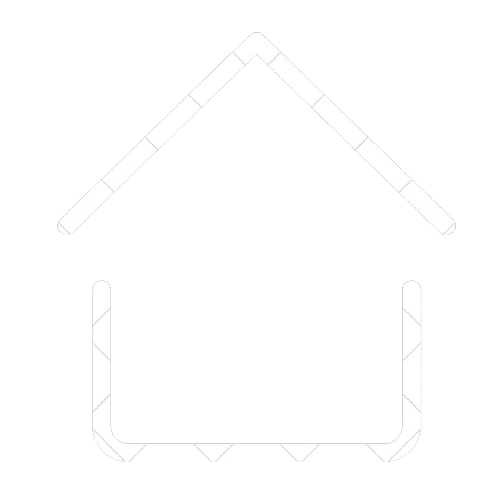
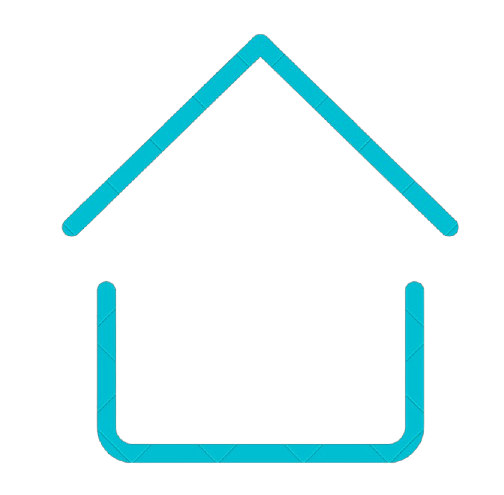
ajustes na cor do botão e inserindo legenda

Changed region(s): [[0.1811, 0.5455, 0.8451, 0.9394], [0.1207, 0.0606, 0.9356, 0.4848]]

diff --git a/index.html b/index.html
@@ -47,11 +47,10 @@
 
     <aside id="app__numbers">
       <div class="home">
-        <button class="r7-button" type="button" title="R7.com">
-          <a href="https://www.r7.com/" target="_black">
-            <img src="assets/images/icone-home.png" alt="Portal R7">
+          <a href="https://www.r7.com/" target="_top" class="r7-button">
+           <p class="r7-button__text">Acesse o r7.com</p>
+            <img src="assets/images/icone-home.png" alt="Portal R7" loading="lazy">
           </a>
-        </button>
       </div>
   
       <div class="numbers__region"></div>

diff --git a/assets/styles/style.css b/assets/styles/style.css
@@ -161,17 +161,25 @@ html, body {
   z-index: 3;
 }
 
-.r7-button{
+.r7-button {
   height: 35px;
-  width: 37px;
+  width: 160px;
   background-color: transparent;
   border: transparent;
-  margin-right: 10px;
+  text-decoration: none;
+  color: white;
+  font-size: 14px;
+  display: flex;
+  align-items: center;
 }
 
 .r7-button img {
   height: 35px;
   width: 37px;
+}
+
+.r7-button__text {
+  margin-right: 10px;
 }
 
 
